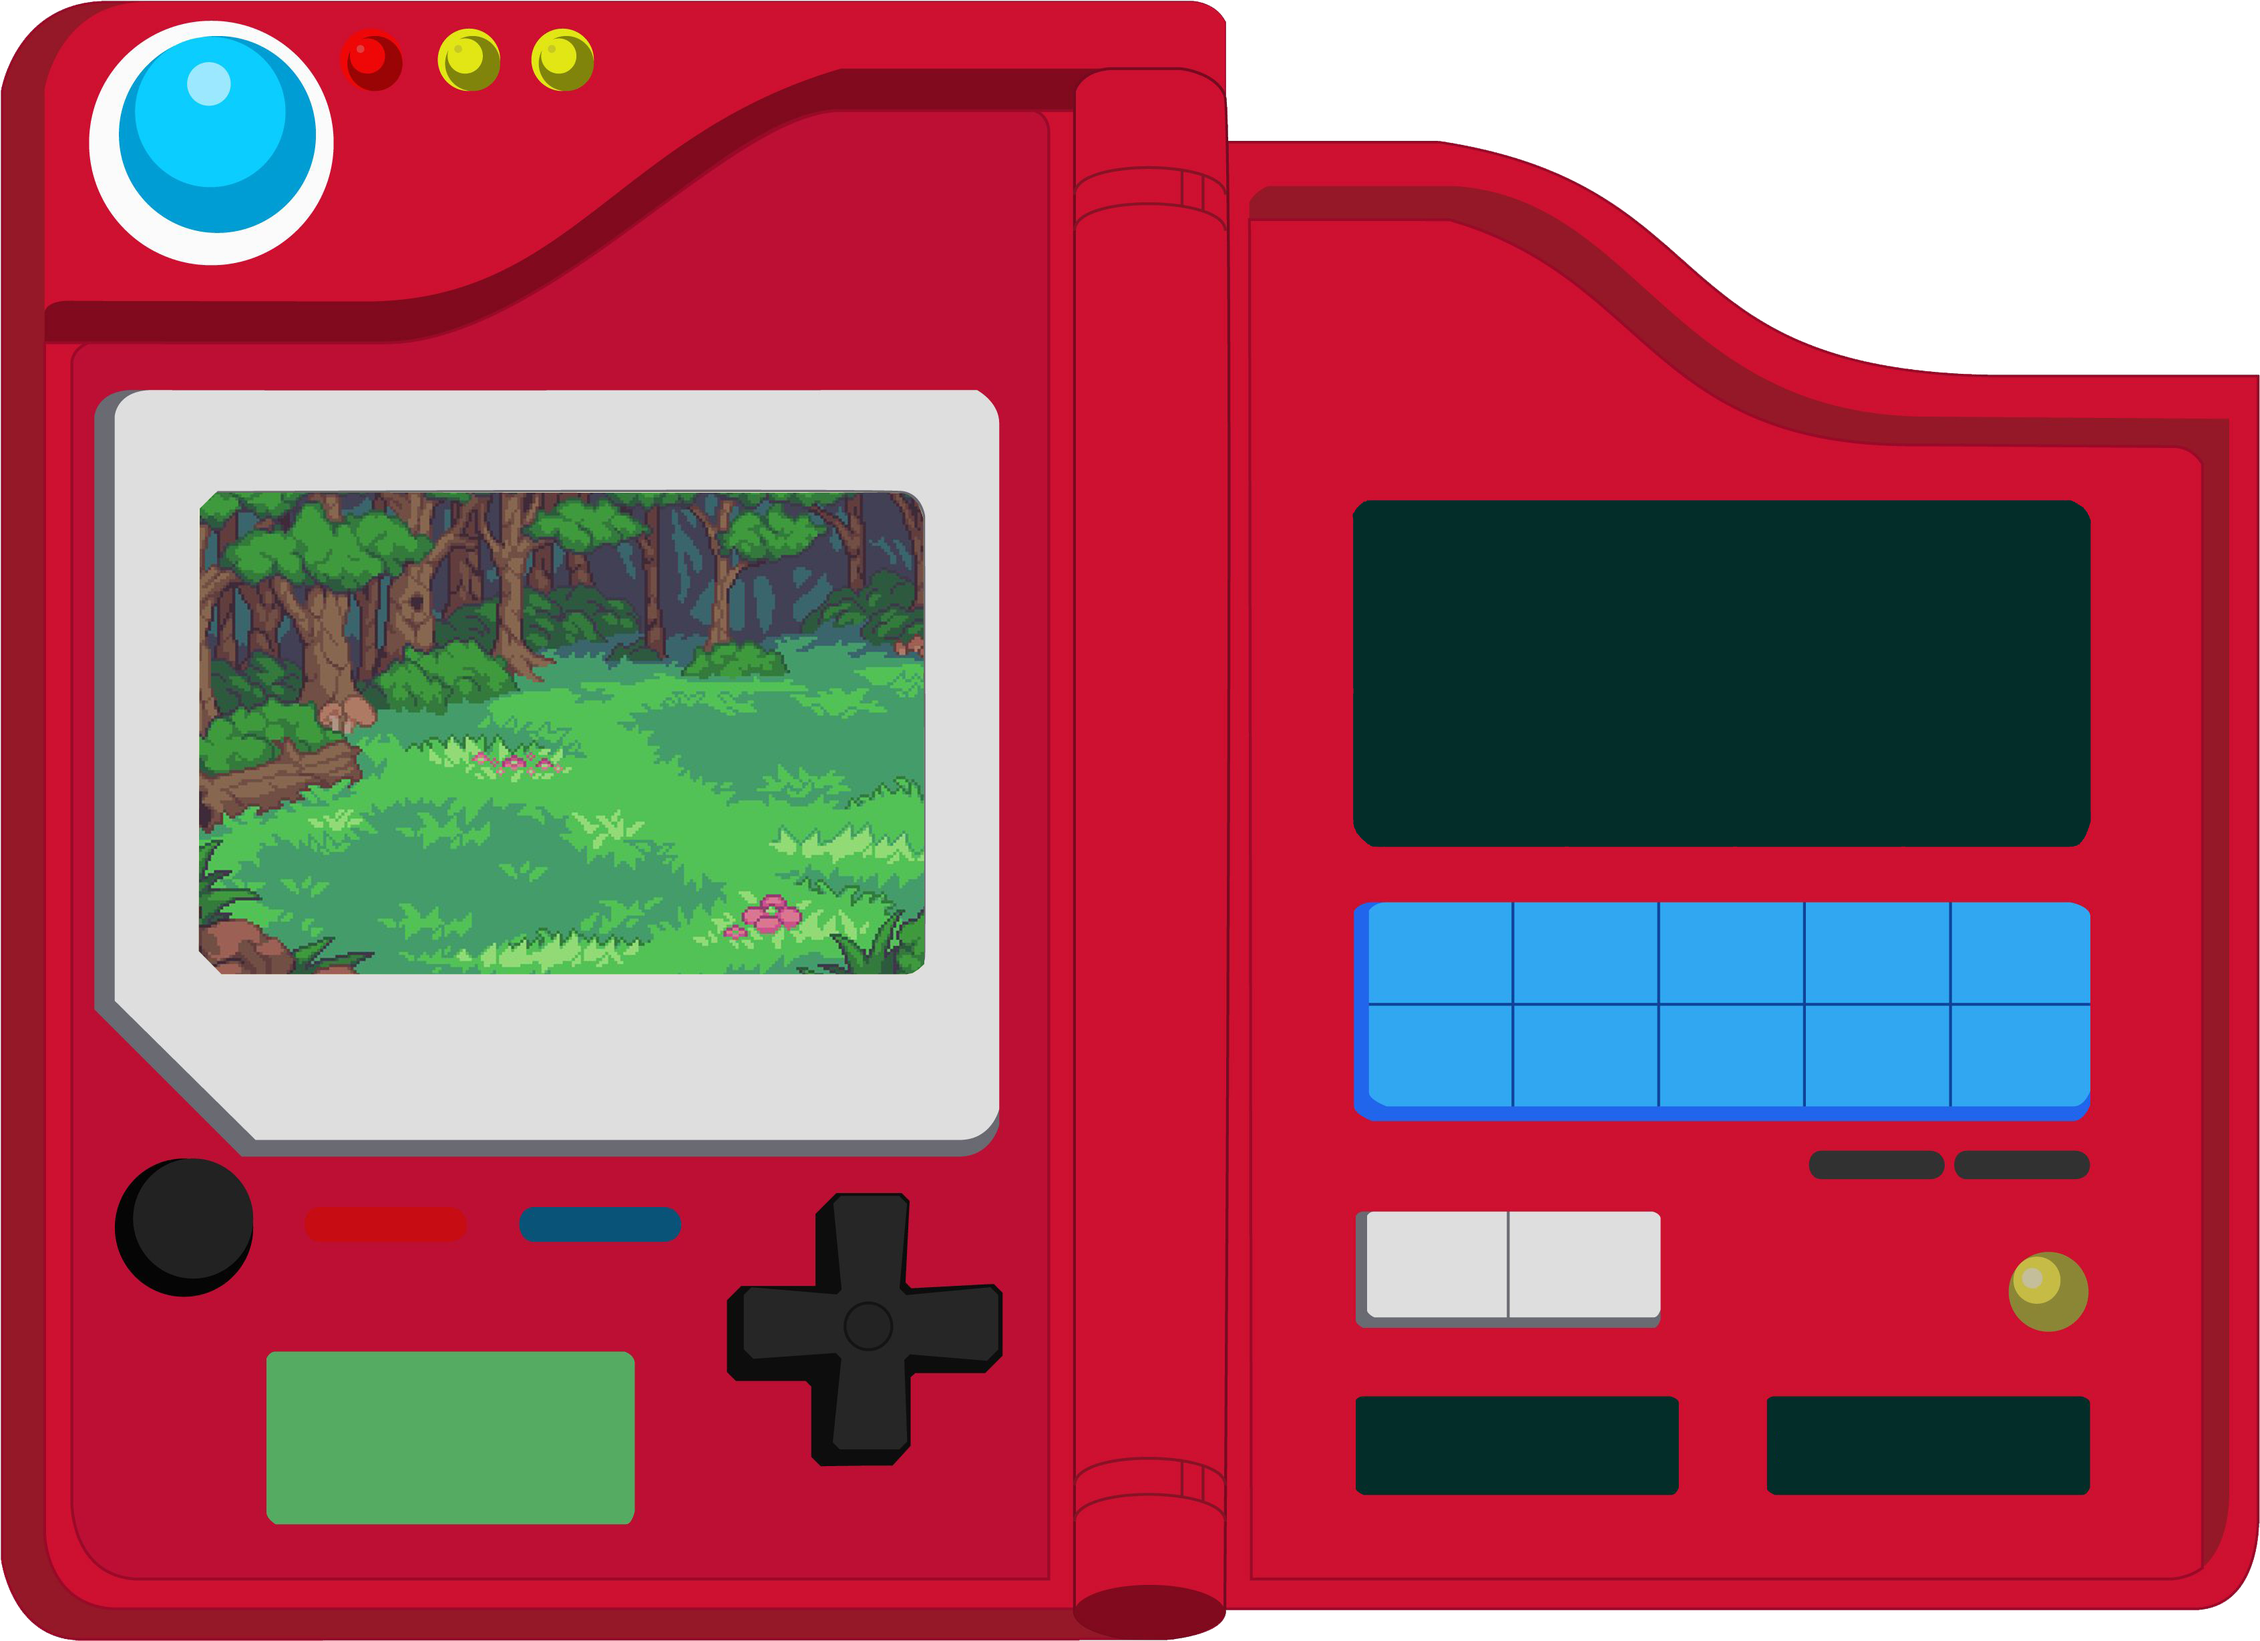
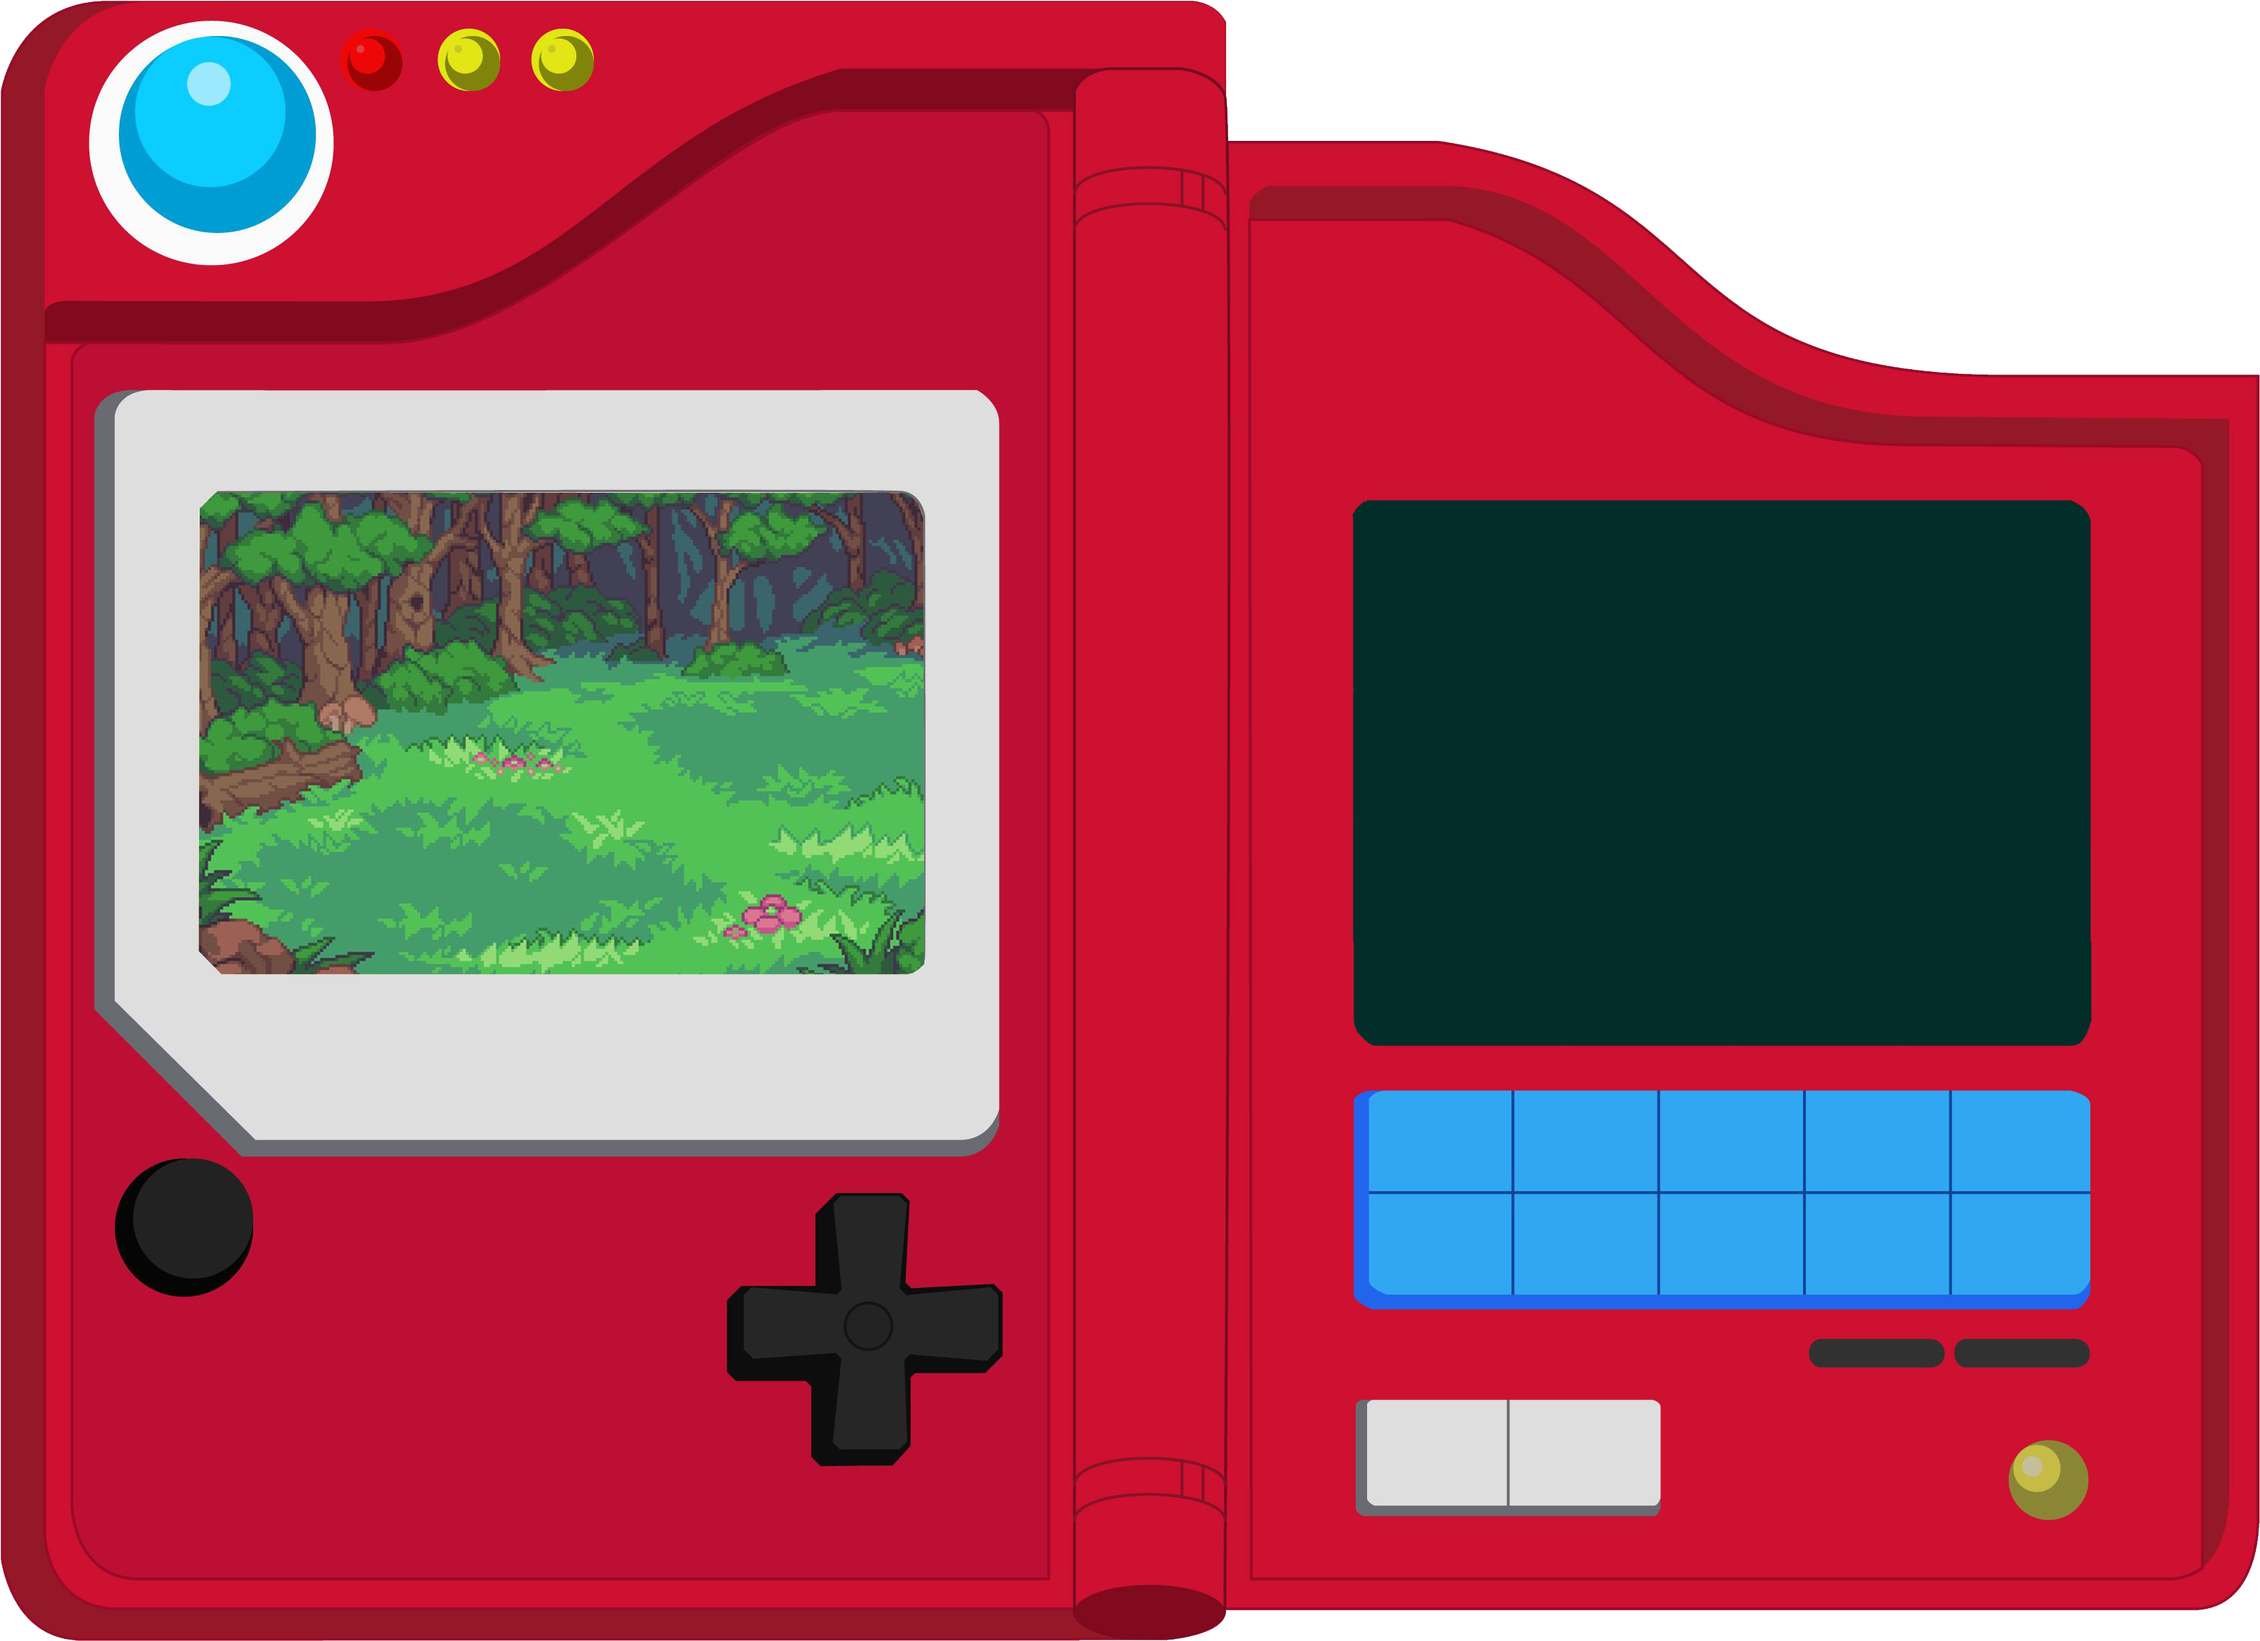
feat: Adicionado recepção e estilização dos tipos de pokemons

Changed region(s): [[0.5895, 0.4947, 0.9309, 0.9276], [0.0931, 0.8039, 0.2793, 0.9276], [0.1241, 0.7111, 0.3103, 0.773]]

diff --git a/src/script.js b/src/script.js
@@ -1,14 +1,17 @@
 const pokemonName = document.querySelector('.pokemon__name');
-
 const pokemonNumber = document.querySelector('.pokemon__number');
-
 const pokemonImage = document.querySelector('.pokemon__image');
+const pokemonHeight = document.querySelector('.pokemon__height');
+const pokemonWeight = document.querySelector('.pokemon__weight');
+const pokemonTypes = document.querySelector('.pokemon__types');
 
 const form = document.querySelector('.form');
 const input = document.querySelector('.input__search');
 
 const buttonPrev = document.querySelector('.btn-prev');
 const buttonNext = document.querySelector('.btn-next');
+
+const pokemonStats = document.querySelector('.pokemon__stats');
 
 let searchPokemon = 1;
 
@@ -25,11 +28,99 @@ const fetchPokemon = async (pokemon) => {
 const renderPokemon = async (pokemon) => {
     pokemonName.innerHTML = 'Loading...';
 
+    pokemonTypes.innerHTML = '';
+
     const data = await fetchPokemon(pokemon);
 
     if (data) {
         pokemonName.innerHTML = data.name;
         pokemonNumber.innerHTML = data.id;
+
+        // TODO abstrair função de formatação de altura
+        pokemonHeight.innerHTML = `Height: ${data.height}`;
+        pokemonWeight.innerHTML = `Weight: ${data.weight}`;
+
+        // TODO abstrair função de estilização de peso
+        if (data.weight < 100) {
+            pokemonStats.style.right = '23.8%';
+        }
+        else if (data.weight >= 100 && data.weight < 999) {
+            pokemonStats.style.right = '22.1%';
+        }
+        else if (data.weight > 999) {
+            pokemonStats.style.right = '20.4%';
+        }
+
+        for (let index = 0; index < data.types.length; index++) {
+            const element = data.types[index];
+            const type = element['type']['name']
+
+            const type_name = document.createElement('p');
+            type_name.innerHTML = type;
+
+            // TODO extrair metodo para troca de cores dos tipos
+            switch (type) {
+                case 'normal':
+                    type_name.style.color = '#A8A77A';
+                    break;
+                case 'fire':
+                    type_name.style.color = '#EE8130';
+                    break;
+                case 'water':
+                    type_name.style.color = '#6390F0';
+                    break;
+                case 'electric':
+                    type_name.style.color = '#F7D02C';
+                    break;
+                case 'grass':
+                    type_name.style.color = '#7AC74C';
+                    break;
+                case 'ice':
+                    type_name.style.color = '#96D9D6';
+                    break;
+                case 'fighting':
+                    type_name.style.color = '#C22E28';
+                    break;
+                case 'poison':
+                    type_name.style.color = '#A33EA1';
+                    break;
+                case 'ground':
+                    type_name.style.color = '#E2BF65';
+                    break;
+                case 'flying':
+                    type_name.style.color = '#A98FF3';
+                    break;
+                case 'psychic':
+                    type_name.style.color = '#F95587';
+                    break;
+                case 'bug':
+                    type_name.style.color = '#A6B91A';
+                    break;
+                case 'rock':
+                    type_name.style.color = '#B6A136';
+                    break;
+                case 'ghost':
+                    type_name.style.color = '#735797';
+                    break;
+                case 'dragon':
+                    type_name.style.color = '#6F35FC';
+                    break;
+                case 'dark':
+                    type_name.style.color = '#705746';
+                    break;
+                case 'steel':
+                    type_name.style.color = '#B7B7CE';
+                    break;
+                case 'fairy':
+                    type_name.style.color = '#D685AD';
+                    break;
+                default:
+                    break;
+            }
+
+            pokemonTypes.appendChild(type_name);
+        }
+
         pokemonImage.style.display = 'block';
         pokemonImage.src = data['sprites']['versions']['generation-v']['black-white']['animated']['front_default'];
 

diff --git a/index.html b/index.html
@@ -12,8 +12,7 @@
   </head>
   <body>
     <main>
-      <!-- TODO
-        Exibir certos valores na pokedex:
+      <!-- TODO Exibir certos valores na pokedex:
         Numero
         Nome
         Altura
@@ -22,8 +21,7 @@
         Tipo
       -->
 
-      <!-- TODO
-        Trocar sprites dos pokemons de acordo com o console escolhido
+      <!-- TODO Trocar sprites dos pokemons de acordo com o console escolhido
 
         https://github.com/PokeAPI/sprites/tree/master/sprites/pokemon/versions
       -->
@@ -35,6 +33,17 @@
         <span class="pokemon__name">Bulbasaur</span>
       </h1>
 
+      <h1 class="pokemon__stats">
+        <span class="pokemon__height">Height</span>
+        <br />
+        <span class="pokemon__weight">Weight</span>
+        <br />
+        <span>Type(s):</span>
+        <div class="pokemon__types"></div>
+      </h1>
+
+      <!-- TODO adicionar funções de rotação aos dpads -->
+
       <form class="form">
         <input
           type="search"
@@ -43,6 +52,8 @@
           required
         />
       </form>
+
+      <!-- TODO adicionar avanco ou retrocesso dos pokemons pelas setas do teclado -->
 
       <div class="buttons">
         <button class="button btn-prev">Prev &lt;</button>

diff --git a/src/style.css b/src/style.css
@@ -47,6 +47,16 @@ main {
   text-transform: capitalize;
 }
 
+.pokemon__stats {
+  position: absolute;
+  text-align: left;
+  font-weight: 400;
+  color: #fff;
+  top: 32.5%;
+  right: 20%;
+  font-size: clamp(8px, 1.3vw, 25px);
+}
+
 .form {
   position: absolute;
   width: 65%;
